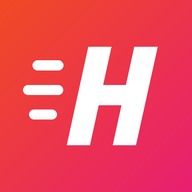
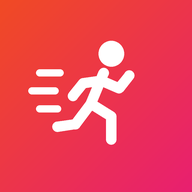
Renomme l'appli en Dromos, nouvelle icône (coureur)
Claude-Session: https://claude.ai/code/session_01MbBe6s2RujYHw1i79QBDP3

Changed region(s): [[0.125, 0.1875, 0.8438, 0.7812], [0.1562, 0.3125, 0.3438, 0.4062]]

diff --git a/index.html b/index.html
@@ -1,17 +1,17 @@
 <!doctype html>
 <html lang="fr"><head><meta charset="utf-8">
-<meta http-equiv="Content-Security-Policy" content="default-src 'self'; script-src 'self' 'sha256-rImoTlEFn8xyp0TI9+UoMoE+QPjJ8Rn2Q6HVSHuOrrA='; style-src 'self' 'unsafe-inline' https://fonts.googleapis.com; font-src https://fonts.gstatic.com; img-src 'self' data: blob:; connect-src 'self' https://qhbrypojnamuhclaneem.supabase.co; worker-src 'self'; manifest-src 'self'; media-src 'self' data: blob:; object-src 'none'; base-uri 'none'; form-action 'none'">
+<meta http-equiv="Content-Security-Policy" content="default-src 'self'; script-src 'self' 'sha256-nZ5Q5NwHedDi8GeHn90ox3PwNx212xY5jnSR2RV6Fis='; style-src 'self' 'unsafe-inline' https://fonts.googleapis.com; font-src https://fonts.gstatic.com; img-src 'self' data: blob:; connect-src 'self' https://qhbrypojnamuhclaneem.supabase.co; worker-src 'self'; manifest-src 'self'; media-src 'self' data: blob:; object-src 'none'; base-uri 'none'; form-action 'none'">
 <meta name="referrer" content="strict-origin-when-cross-origin">
 <meta name="viewport" content="width=device-width,initial-scale=1,viewport-fit=cover">
 <meta name="apple-mobile-web-app-capable" content="yes"><meta name="mobile-web-app-capable" content="yes">
 <meta name="apple-mobile-web-app-status-bar-style" content="black-translucent">
-<meta name="apple-mobile-web-app-title" content="Hermes">
+<meta name="apple-mobile-web-app-title" content="Dromos">
 <meta name="theme-color" content="#E9ECF1" media="(prefers-color-scheme: light)">
 <meta name="theme-color" content="#0B0D12" media="(prefers-color-scheme: dark)">
 <link rel="manifest" href="manifest.webmanifest">
 <link rel="apple-touch-icon" href="apple-touch-icon.png">
 <link rel="icon" type="image/png" href="icon-192.png">
-<title>Hermes</title>
+<title>Dromos</title>
 <meta name="claude:viewport-fit-sides" content="cover">
 <link rel="preconnect" href="https://fonts.googleapis.com">
 <link rel="preconnect" href="https://fonts.gstatic.com" crossorigin>
@@ -722,7 +722,7 @@ function byPosition(list){ const f=list.filter(e=>FLOOR.has(e)), u=list.filter(e
 const TCOL={tirage:'#0F9F73',skills:'#E81F70',cardio:'#F04A24',haut:'#2F6BFF',jambes:'#7A4DFF',abdos:'#0F9F73',full:'#E81F70',surprise:'#FFB000',mobilite:'#14B8C9'};
 const TON=id=>id==='surprise'||id==='mobilite'?'#121116':'#FFFFFF';
 const TSHORT={tirage:'Tirage',skills:'Skills',cardio:'Cardio',haut:'Haut',jambes:'Jambes',abdos:'Abdos',full:'Full',surprise:'Surprise',mobilite:'Mobilité'};
-/* Illustrations Hermes : un sportif en traits épais + décor, couleur du jour en fond */
+/* Illustrations Dromos : un sportif en traits épais + décor, couleur du jour en fond */
 const ILLU=(()=>{
   const L=(a,b,w,o)=>`<path d="M${a[0]} ${a[1]}L${b[0]} ${b[1]}" stroke-width="${w}" ${o?`opacity="${o}"`:''}/>`;
   const C=(a,b,c,w,o)=>`<path d="M${a[0]} ${a[1]}Q${b[0]} ${b[1]} ${c[0]} ${c[1]}" stroke-width="${w}" fill="none" ${o?`opacity="${o}"`:''}/>`;
@@ -773,7 +773,7 @@ const ILLU=(()=>{
     return `<svg viewBox="0 0 210 170" class="illu" aria-hidden="true">${s.d(acc)}${man(s.p,ink,shirt)}</svg>`; };
 })();
 const illuFor=id=>ILLU(id,'#121116',TON(id)==='#FFFFFF'?'rgba(255,255,255,.38)':'rgba(18,17,22,.16)',typeof shirtCol==='function'?shirtCol():'#FFFFFF');
-const APP_VER='hermes-v3';
+const APP_VER='dromos-v1';
 let NEW_VER=false, VER_AT=0;
 async function checkVersion(){ if(window.claude||APP_VER==='dev'||Date.now()-VER_AT<10*60000) return; VER_AT=Date.now(); try{ const r=await fetch('version.json',{cache:'no-store'}); const j=await r.json(); if(j&&j.v&&j.v!==APP_VER&&!NEW_VER){ NEW_VER=true; render(); } }catch(e){} }
 function verBanner(){ return NEW_VER?`<div class="verbar glass"><span class="small"><b>Nouvelle version disponible</b></span><button class="btn sm primary" data-act="reloadApp">Mettre à jour</button></div>`:''; }
@@ -1258,7 +1258,7 @@ async function monthImage(){ const M=monthStats(), W=1080,H=1350, c=document.cre
   const col=getComputedStyle(document.documentElement).getPropertyValue('--day').trim()||'#F04A24', on=getComputedStyle(document.documentElement).getPropertyValue('--on-day').trim()||'#fff';
   g.fillStyle=col; g.fillRect(0,0,W,H); g.save(); g.globalAlpha=.07; g.fillStyle='#000'; for(let x=-H;x<W;x+=88){ g.beginPath(); g.moveTo(x,H); g.lineTo(x+44,H); g.lineTo(x+44+H*.7,0); g.lineTo(x+H*.7,0); g.fill(); } g.restore();
   try{ await document.fonts.load('120px Anton'); }catch(e){}
-  g.fillStyle=on; g.font='700 44px Figtree, system-ui, sans-serif'; g.fillText('HERMES · '+MOIS_L[+M.m.slice(5)-1].toUpperCase()+' '+M.m.slice(0,4),80,130);
+  g.fillStyle=on; g.font='700 44px Figtree, system-ui, sans-serif'; g.fillText('DROMOS · '+MOIS_L[+M.m.slice(5)-1].toUpperCase()+' '+M.m.slice(0,4),80,130);
   g.font='170px Anton, Impact, sans-serif'; g.fillText('MON MOIS',72,330);
   const rows=[[M.days,'jours actifs'],[M.min,'minutes d’effort'],[fr(M.kcal),'kcal brûlées'],[M.best,'jours de série (record)']];
   rows.forEach(([v,l],i)=>{ const y=520+i*190; g.font='150px Anton, Impact, sans-serif'; g.fillText(String(v),80,y); g.font='600 46px Figtree, system-ui, sans-serif'; g.fillText(l,80,y+62); });
@@ -1655,7 +1655,7 @@ const ACT={
   doCh(b){ const c=CHALL.find(x=>x.id===b.dataset.id), st=chState(c); if(!st) return; const ch=D.s.challenges[c.id]; ch.done=st.doneToday?ch.done.filter(d=>d!==st.day):[...ch.done,st.day]; save('s'); render(); if(!st.doneToday) toast(st.day===30?'Défi terminé, bravo !':'Jour '+st.day+' validé.'); },
   dinnerTonight(b){ D.r.plan[iso()+'|s']={r:b.dataset.id,p:1}; prunePlan(); save('r'); render(); toast('Ajouté au dîner de ce soir.'); },
   suggestWeek(){ const n=suggestWeek(); save('r'); render(); toast(n?n+' repas proposés, avec des restes pour cuisiner moins.':'Ta semaine est déjà remplie : vide-la d’abord.'); },
-  async shareWeek(){ const R=recapText(); const text=`Ma semaine sur Hermes : ${R.cur.days} jours actifs, ${R.cur.min} min d’effort, ${fr(R.cur.kc)} kcal brûlées. Série en cours : ${dayStreak()} jours.`;
+  async shareWeek(){ const R=recapText(); const text=`Ma semaine sur Dromos : ${R.cur.days} jours actifs, ${R.cur.min} min d’effort, ${fr(R.cur.kc)} kcal brûlées. Série en cours : ${dayStreak()} jours.`;
     if(navigator.share&&!window.claude){ try{ await navigator.share({text}); return; }catch(e){ if(e&&e.name==='AbortError') return; } }
     try{ await navigator.clipboard.writeText(text); toast('Copié : colle-le dans un message.'); }catch(e){ toast(text); } },
   toggleQuiet(){ D.s.quiet=!D.s.quiet; save('s'); render(); },
@@ -1663,7 +1663,7 @@ const ACT={
   async enablePush(){ const m=$('#pushMsg'); const say=t=>{ if(m) m.textContent=t; };
     if(MODE!=='supa'){ say('Connecte-toi d’abord à la synchro.'); return; }
     if(!('serviceWorker' in navigator)||!('PushManager' in window)||!('Notification' in window)){ say('Sur iPhone, ajoute d’abord l’appli à l’écran d’accueil (Safari → Partager → Sur l’écran d’accueil), puis ouvre-la depuis son icône.'); return; }
-    try{ const perm=await Notification.requestPermission(); if(perm!=='granted'){ say('Notifications refusées. Tu peux les autoriser dans les réglages de l’iPhone → Notifications → Hermes.'); return; }
+    try{ const perm=await Notification.requestPermission(); if(perm!=='granted'){ say('Notifications refusées. Tu peux les autoriser dans les réglages de l’iPhone → Notifications → Dromos.'); return; }
       say('Activation…'); const k=await fetch(FN+'?key=1',{headers:{apikey:SUPA.key}}).then(r=>r.json()); const reg=await navigator.serviceWorker.ready;
       const sub=(await reg.pushManager.getSubscription())||await reg.pushManager.subscribe({userVisibleOnly:true,applicationServerKey:u8(k.pub)});
       await savePushRow(sub); D.s.pushOn=true; save('s'); render(); toast('Notifications activées.'); }
@@ -1672,8 +1672,8 @@ const ACT={
       const r=await fetch(FN,{method:'POST',headers:{apikey:SUPA.key,'Content-Type':'application/json'},body:JSON.stringify({test:sub.endpoint})}).then(r=>r.json());
       if(m) m.textContent=r&&r.sent?'Notification envoyée : elle arrive dans quelques secondes.':'Envoi impossible pour le moment.'; }catch(e){ if(m) m.textContent='Envoi impossible pour le moment.'; } },
   async disablePush(){ try{ const sub=await pushSub(); if(sub){ await SB.req('/rest/v1/elan_push?endpoint=eq.'+encodeURIComponent(sub.endpoint),{method:'DELETE'}).catch(()=>{}); await sub.unsubscribe(); } }catch(e){} D.s.pushOn=false; save('s'); render(); toast('Notifications désactivées sur cet appareil.'); },
-  async shareMonth(){ try{ const blob=await monthImage(), name='hermes-mois-'+iso().slice(0,7)+'.png', file=new File([blob],name,{type:'image/png'});
-      if(navigator.canShare&&navigator.canShare({files:[file]})){ await navigator.share({files:[file],title:'Mon mois sur Hermes'}); return; }
+  async shareMonth(){ try{ const blob=await monthImage(), name='dromos-mois-'+iso().slice(0,7)+'.png', file=new File([blob],name,{type:'image/png'});
+      if(navigator.canShare&&navigator.canShare({files:[file]})){ await navigator.share({files:[file],title:'Mon mois sur Dromos'}); return; }
       if(window.claude){ const dl=await claude.use('downloads'); if(dl){ await dl.save({filename:name,data:blob}); return; } }
       const url=URL.createObjectURL(blob), a=document.createElement('a'); a.href=url; a.download=name; document.body.appendChild(a); a.click(); a.remove(); setTimeout(()=>URL.revokeObjectURL(url),2000); }catch(e){ if(e&&e.name!=='AbortError') toast('Partage impossible.'); } },
   async reloadApp(){ try{ const r=await navigator.serviceWorker?.getRegistration(); if(r){ await r.update(); r.waiting?.postMessage('skip'); } }catch(e){} location.reload(); },
@@ -1684,7 +1684,7 @@ const ACT={
   setShirt(b){ D.s.shirt=+b.dataset.i; save('s'); render(); },
   startMin3(){ const p=min3Session(); startPlayer(p,{k:'min3',sk:'tabata'}); },
   wkAdd(){ const c=wkChallenge(); if(!c||c.auto) return; D.s.wkc=D.s.wkc||{}; const st=D.s.wkc[c.m]||{p:0}; st.p=Math.min(c.t,(st.p||0)+c.st); st.done=st.p>=c.t; D.s.wkc[c.m]=st; save('s'); render(); if(st.done) toast('Défi du week-end réussi !'); },
-  async downloadBackup(){ const txt=JSON.stringify({app:'elan',v:1,d:iso(),s:D.s,r:D.r}), name='hermes-sauvegarde-'+iso()+'.json', blob=new Blob([txt],{type:'application/json'});
+  async downloadBackup(){ const txt=JSON.stringify({app:'elan',v:1,d:iso(),s:D.s,r:D.r}), name='dromos-sauvegarde-'+iso()+'.json', blob=new Blob([txt],{type:'application/json'});
     if(window.claude){ try{ const dl=await claude.use('downloads'); if(dl){ await dl.save({filename:name,data:blob}); return; } }catch(e){} }
     const url=URL.createObjectURL(blob), a=document.createElement('a'); a.href=url; a.download=name; document.body.appendChild(a); a.click(); a.remove(); setTimeout(()=>URL.revokeObjectURL(url),2000); },
   async restoreSnap(b){ try{ const x=await idb('snapGet',b.dataset.d); if(!x) return; D.s=norm('s',x.s); D.r=norm('r',x.r); save('s'); save('r'); render(); toast('Sauvegarde du '+fmtDate(x.d)+' restaurée.'); }catch(e){ toast('Restauration impossible.'); } },
@@ -1727,13 +1727,13 @@ const ACT={
   async remind(){ const t=($('#remind_t')?.value||'18:30'); D.s.remind=t; save('s'); const [H,M]=t.split(':'); const d=new Date(); if(d.getHours()*60+d.getMinutes()>=(+H)*60+(+M)) d.setDate(d.getDate()+1);
     const stamp=new Date().toISOString().replace(/[-:]/g,'').replace(/\.\d+/,'');
     const ics=['BEGIN:VCALENDAR','VERSION:2.0','PRODID:-//Elan//FR','CALSCALE:GREGORIAN','BEGIN:VEVENT','UID:elan-rappel-'+Date.now()+'@elan','DTSTAMP:'+stamp,'DTSTART:'+iso(d).replace(/-/g,'')+'T'+H+M+'00','DURATION:PT15M','RRULE:FREQ=DAILY',
-      'SUMMARY:Hermes · ta séance du jour','DESCRIPTION:Quelques minutes suffisent pour garder ta série.','URL:https://lampadwair.github.io/elan/','BEGIN:VALARM','ACTION:DISPLAY','DESCRIPTION:Ton Tabata t’attend','TRIGGER:PT0M','END:VALARM','END:VEVENT','END:VCALENDAR'].join('\r\n');
+      'SUMMARY:Dromos · ta séance du jour','DESCRIPTION:Quelques minutes suffisent pour garder ta série.','URL:https://lampadwair.github.io/elan/','BEGIN:VALARM','ACTION:DISPLAY','DESCRIPTION:Ton Tabata t’attend','TRIGGER:PT0M','END:VALARM','END:VEVENT','END:VCALENDAR'].join('\r\n');
     const blob=new Blob([ics],{type:'text/calendar'});
     if(window.claude){ try{ const dl=await claude.use('downloads'); if(!dl) throw 0; await dl.save({filename:'elan-rappel.ics',data:blob}); toast('Ouvre le fichier pour ajouter le rappel à ton calendrier.'); }catch(e){ if(!(e&&e.code==='cancelled')) toast('Fais-le plutôt depuis l’appli iPhone.'); } return; }
     const url=URL.createObjectURL(blob), a=document.createElement('a'); a.href=url; a.download='elan-rappel.ics'; document.body.appendChild(a); a.click(); a.remove(); setTimeout(()=>URL.revokeObjectURL(url),60000);
     toast('Ajoute l’événement à ton calendrier : il sonnera chaque jour à '+t+'.'); },
   async shareList(){ const items=shopping(PLAN_OFF), wk=weekDays(PLAN_OFF)[0], rest=items.filter(i=>!D.r.checked[wk+'|'+i.key]); if(!rest.length){ toast('Tout est déjà coché.'); return; }
-    const text='Courses Hermes (semaine du '+fmtDate(wk)+')\n'+AISLE_ORDER.map(a=>{ const L=rest.filter(i=>aisleOf(i.n)===a); return L.length?'\n'+a+'\n'+L.map(i=>'• '+i.n+(i.qty?' : '+i.qty:'')).join('\n'):''; }).join('');
+    const text='Courses Dromos (semaine du '+fmtDate(wk)+')\n'+AISLE_ORDER.map(a=>{ const L=rest.filter(i=>aisleOf(i.n)===a); return L.length?'\n'+a+'\n'+L.map(i=>'• '+i.n+(i.qty?' : '+i.qty:'')).join('\n'):''; }).join('');
     if(navigator.share&&!window.claude){ try{ await navigator.share({title:'Liste de courses',text}); return; }catch(e){ if(e&&e.name==='AbortError') return; } }
     try{ await navigator.clipboard.writeText(text); toast('Liste copiée : colle-la dans un message.'); }
     catch(e){ openSheet(`<div class="between"><h2 class="title-l">Liste de courses</h2><button class="icon-btn glass" data-act="closeSheet" aria-label="Fermer">${svg('x',16)}</button></div><textarea rows="12" readonly>${esc(text)}</textarea><p class="xs muted">Sélectionne le texte et copie-le.</p>`); } },
@@ -1777,7 +1777,7 @@ const ACT={
     const fallback=()=>{ ta.value=txt; ta.focus(); ta.select(); toast('Sélectionné : copie-le avec Copier.'); };
     try{ navigator.clipboard.writeText(txt).then(()=>toast('Données copiées. Colle-les dans l’autre version.'),fallback); }catch(e){ fallback(); } },
   pasteData(){ let o; try{ o=JSON.parse($('#xfer').value); }catch(e){ toast('Ces données ne sont pas lisibles. Recopie-les en entier.'); return; }
-    if(!o||o.app!=='elan'||!o.s||!o.r){ toast('Ce ne sont pas des données Hermes.'); return; }
+    if(!o||o.app!=='elan'||!o.s||!o.r){ toast('Ce ne sont pas des données Dromos.'); return; }
     D.s=norm('s',o.s); D.r=norm('r',o.r); save('s'); save('r'); render(); toast('Données importées.'); },
 };
 document.addEventListener('click',e=>{

diff --git a/sw.js b/sw.js
@@ -1,5 +1,5 @@
-// Hermes : cache hors-ligne. Change VERSION à chaque mise à jour.
-const VERSION='hermes-v3';
+// Dromos : cache hors-ligne. Change VERSION à chaque mise à jour.
+const VERSION='dromos-v1';
 const CORE=['./','./index.html','./manifest.webmanifest','./icon-192.png','./icon-512.png','./apple-touch-icon.png'];
 self.addEventListener('install',e=>{e.waitUntil(caches.open(VERSION).then(c=>c.addAll(CORE)).then(()=>self.skipWaiting()));});
 self.addEventListener('activate',e=>{e.waitUntil(caches.keys().then(ks=>Promise.all(ks.filter(k=>k!==VERSION).map(k=>caches.delete(k)))).then(()=>self.clients.claim()));});

diff --git a/README.md b/README.md
@@ -1,5 +1,5 @@
-# Élan
+# Dromos
 
-Appli de reprise du sport : Tabata du jour, programme force, progrès et repas.
+Appli de reprise du sport : séance du jour, programme force, progrès et repas.
 
 En ligne : https://lampadwair.github.io/elan/
